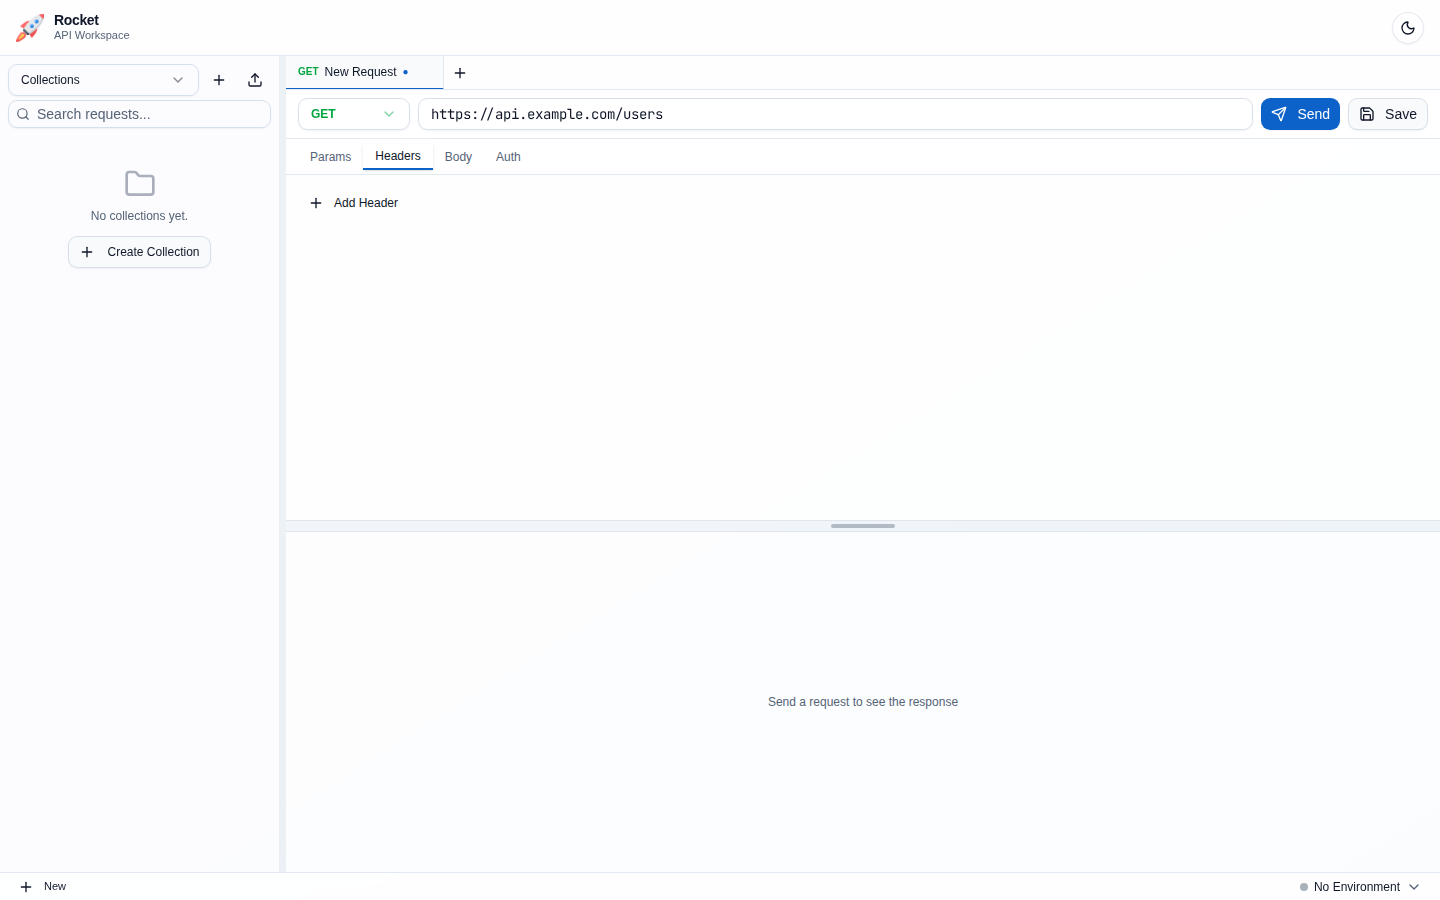
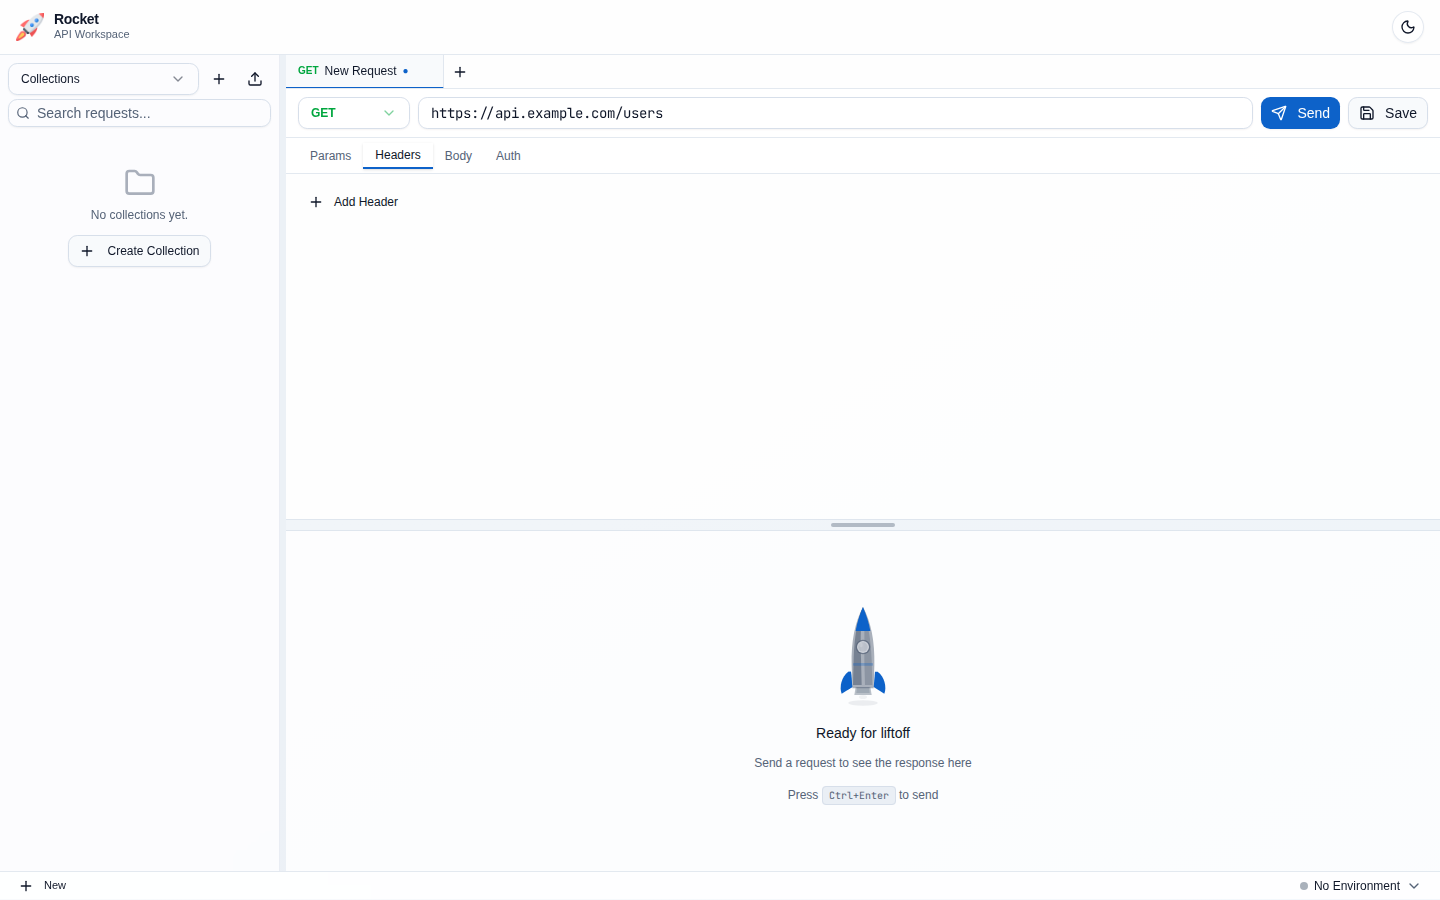
docs: regenerate manual screenshots and add illustration previews
Update capture script to handle the new empty-by-default workspace
(clicks "New Request" before navigating features). Add a standalone
capture-illustrations.ts script that renders each SVG illustration
as a PNG in both light and dark mode. 12 illustration previews and
22 manual screenshots regenerated.

diff --git a/scripts/capture-illustrations.ts b/scripts/capture-illustrations.ts
@@ -1,0 +1,123 @@
+/**
+ * Captures each SVG illustration as a standalone PNG in both themes.
+ *
+ * Usage: npx tsx scripts/capture-illustrations.ts
+ */
+
+import { chromium } from 'playwright';
+import { resolve, dirname } from 'path';
+import { fileURLToPath } from 'url';
+
+const __filename = fileURLToPath(import.meta.url);
+const __dirname = dirname(__filename);
+
+const OUTPUT_DIR = resolve(__dirname, '../src/components/illustrations');
+
+const ILLUSTRATIONS = [
+  'RocketLaunch',
+  'RocketOrbit',
+  'RocketIdle',
+  'RocketSearch',
+  'RocketError',
+  'RocketMinimal',
+];
+
+// CSS vars for light and dark themes (matches index.css).
+const THEMES: Record<string, Record<string, string>> = {
+  light: {
+    '--color-primary': 'hsl(213, 88%, 42%)',
+    '--color-primary-foreground': 'hsl(0, 0%, 100%)',
+    '--color-background': 'hsl(214, 44%, 98%)',
+    '--color-foreground': 'hsl(222, 47%, 11%)',
+    '--color-muted': 'hsl(213, 35%, 94%)',
+    '--color-muted-foreground': 'hsl(215, 17%, 40%)',
+    '--color-accent': 'hsl(212, 86%, 94%)',
+    '--color-destructive': 'hsl(0, 84%, 60%)',
+    '--color-destructive-foreground': 'hsl(0, 0%, 98%)',
+    '--color-border': 'hsl(214, 31%, 88%)',
+  },
+  dark: {
+    '--color-primary': 'hsl(207, 100%, 42%)',
+    '--color-primary-foreground': 'hsl(0, 0%, 98%)',
+    '--color-background': 'hsl(0, 0%, 12%)',
+    '--color-foreground': 'hsl(0, 0%, 87%)',
+    '--color-muted': 'hsl(0, 0%, 14%)',
+    '--color-muted-foreground': 'hsl(0, 0%, 60%)',
+    '--color-accent': 'hsl(204, 100%, 18%)',
+    '--color-destructive': 'hsl(0, 72%, 45%)',
+    '--color-destructive-foreground': 'hsl(0, 0%, 98%)',
+    '--color-border': 'hsl(0, 0%, 19%)',
+  },
+};
+
+// Build an HTML page that renders one SVG illustration using CSS vars.
+function buildPage(svgName: string, theme: 'light' | 'dark'): string {
+  const vars = THEMES[theme];
+  const cssVars = Object.entries(vars).map(([k, v]) => `${k}: ${v};`).join('\n    ');
+  const bg = theme === 'light' ? '#f5f7fa' : '#1e1e1e';
+
+  // We load the illustration from the preview page's inline SVGs.
+  // For simplicity, render a centered container and inject via the illustrations.html data.
+  return `<!DOCTYPE html>
+<html><head><style>
+  :root { ${cssVars} }
+  body { margin: 0; display: flex; align-items: center; justify-content: center;
+         width: 300px; height: 300px; background: ${bg}; }
+  svg { width: 240px; height: 240px; }
+</style></head>
+<body><div id="root"></div></body></html>`;
+}
+
+async function main(): Promise<void> {
+  const browser = await chromium.launch({ headless: true });
+
+  // Read the illustrations.html to extract SVG markup for each illustration.
+  const fs = await import('fs');
+  const htmlPath = resolve(__dirname, '../public/illustrations.html');
+  const htmlContent = fs.readFileSync(htmlPath, 'utf-8');
+
+  // Parse SVG blocks from the illustrations data in the HTML file.
+  const svgMap = new Map<string, string>();
+  const regex = /name:\s*'(\w+)'[\s\S]*?svg:\s*`([\s\S]*?)`/g;
+  let match;
+  while ((match = regex.exec(htmlContent)) !== null) {
+    svgMap.set(match[1], match[2].trim());
+  }
+
+  for (const name of ILLUSTRATIONS) {
+    const svg = svgMap.get(name);
+    if (!svg) {
+      console.log(`  Skipped: ${name} (not found in illustrations.html)`);
+      continue;
+    }
+
+    for (const theme of ['light', 'dark'] as const) {
+      const page = await browser.newPage({ viewport: { width: 300, height: 300 } });
+      const vars = THEMES[theme];
+      const cssVars = Object.entries(vars).map(([k, v]) => `${k}: ${v};`).join(' ');
+      const bg = theme === 'light' ? '#f5f7fa' : '#1e1e1e';
+
+      const html = `<!DOCTYPE html>
+<html><head><style>
+  :root { ${cssVars} }
+  body { margin: 0; display: flex; align-items: center; justify-content: center;
+         width: 300px; height: 300px; background: ${bg}; }
+  svg { width: 240px; height: 240px; }
+</style></head>
+<body>${svg}</body></html>`;
+
+      await page.setContent(html, { waitUntil: 'networkidle' });
+      await page.waitForTimeout(200);
+
+      const path = `${OUTPUT_DIR}/${name}-${theme}.png`;
+      await page.screenshot({ path });
+      console.log(`  Captured: ${name}-${theme}.png`);
+      await page.close();
+    }
+  }
+
+  await browser.close();
+  console.log('\nAll illustration previews captured.');
+}
+
+main();

diff --git a/scripts/capture-screenshots.ts b/scripts/capture-screenshots.ts
@@ -67,13 +67,20 @@ async function clickTab(page: Page, text: string): Promise<void> {
 
 // Feature screenshot definitions.
 async function captureAllScreens(page: Page): Promise<void> {
-  // 1. Full app overview — default state after load.
-  console.log('Capturing: app overview');
+  // 1. Full app overview — branded empty state.
+  console.log('Capturing: app overview (empty state)');
   await captureBoth(page, '01-app-overview');
 
-  // 2. Request builder — URL bar, method selector, send button.
+  // 2. Open a new request tab via the "New Request" button.
+  console.log('Opening new request tab...');
+  const newRequestBtn = page.getByRole('button', { name: /new request/i }).first();
+  if (await newRequestBtn.isVisible()) {
+    await newRequestBtn.click();
+    await page.waitForTimeout(500);
+  }
+
+  // 3. Request builder — URL bar, method selector, send button.
   console.log('Capturing: request builder');
-  // Type a sample URL to show the builder in action.
   const urlInput = page.locator('input[placeholder*="api.example.com"]').first();
   if (await urlInput.isVisible()) {
     await urlInput.fill('https://api.example.com/users');
